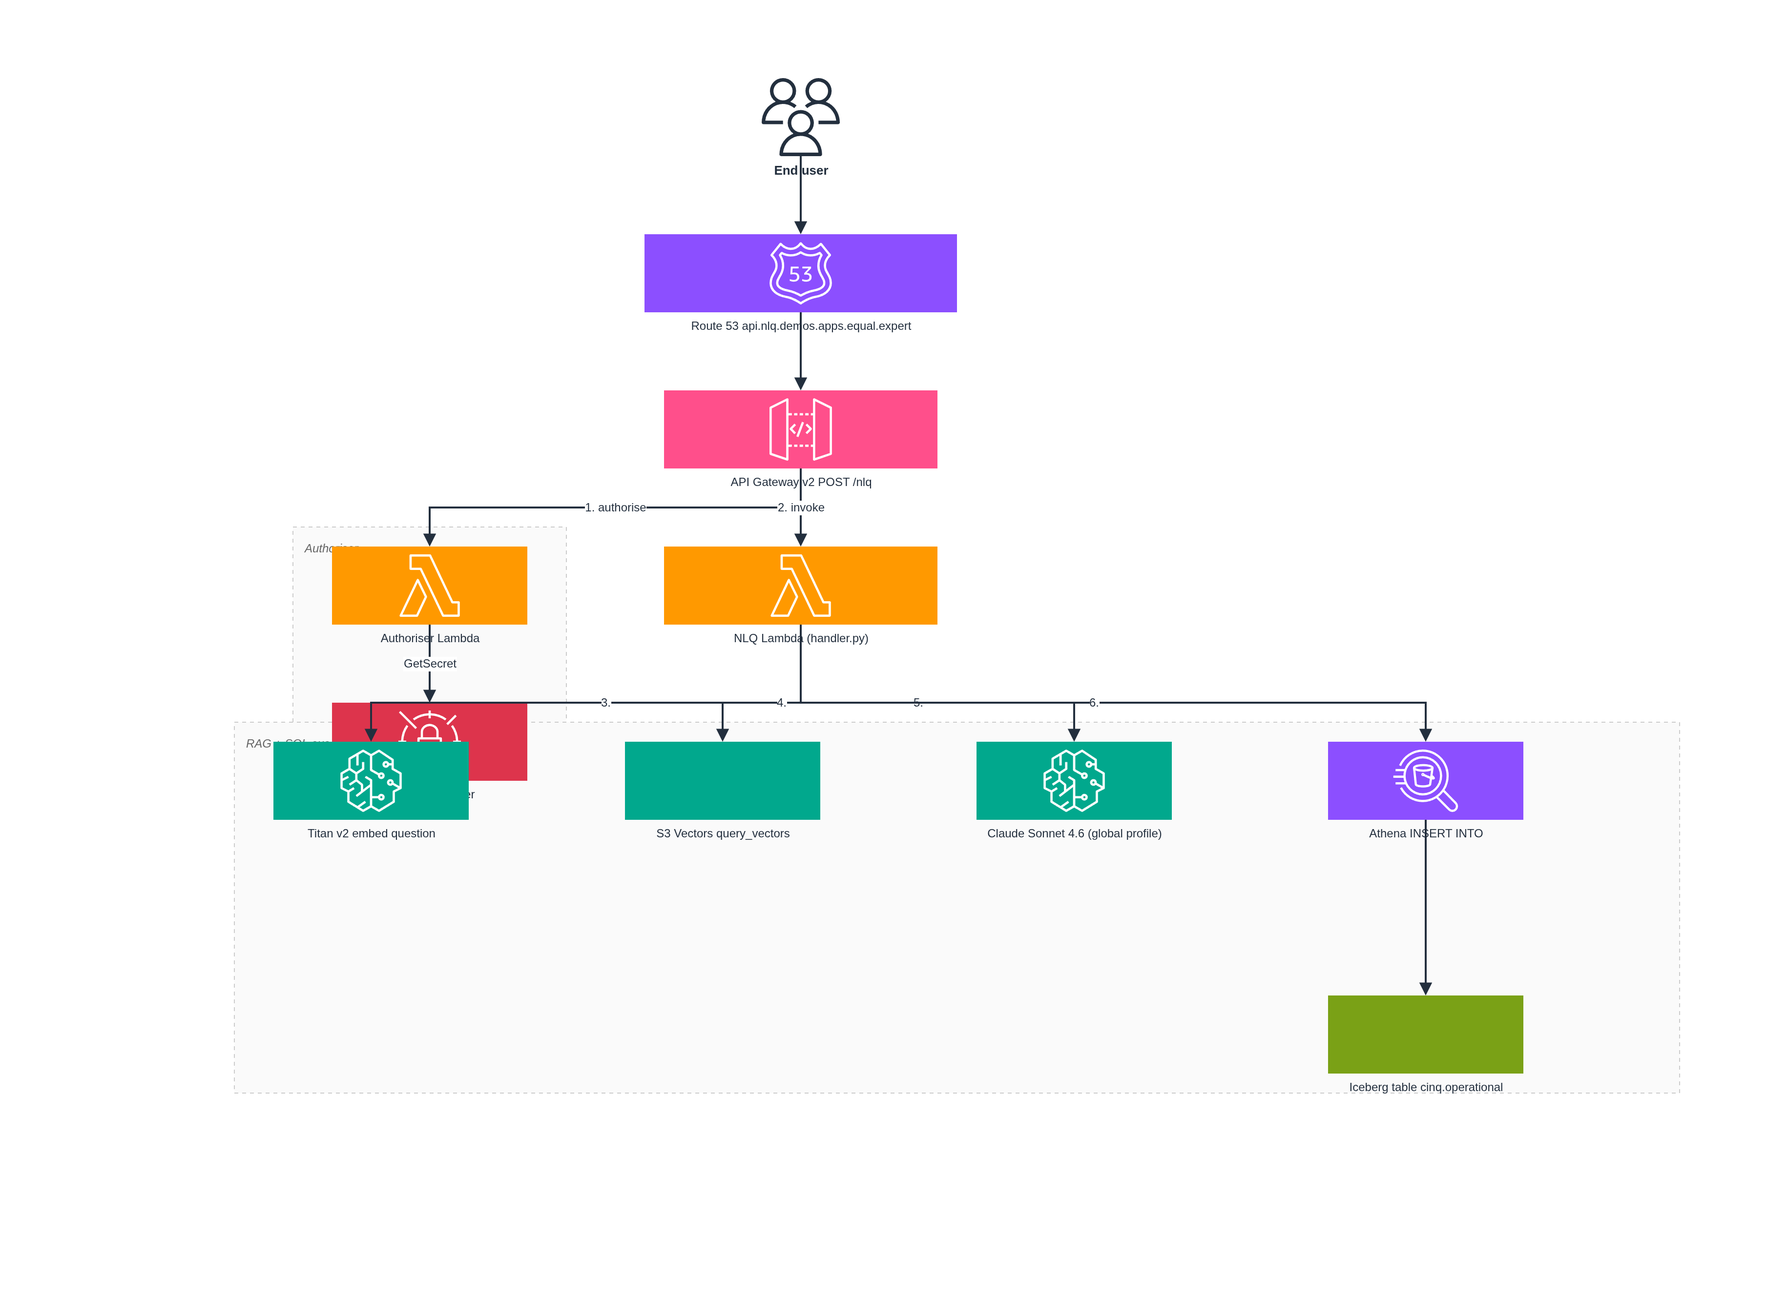
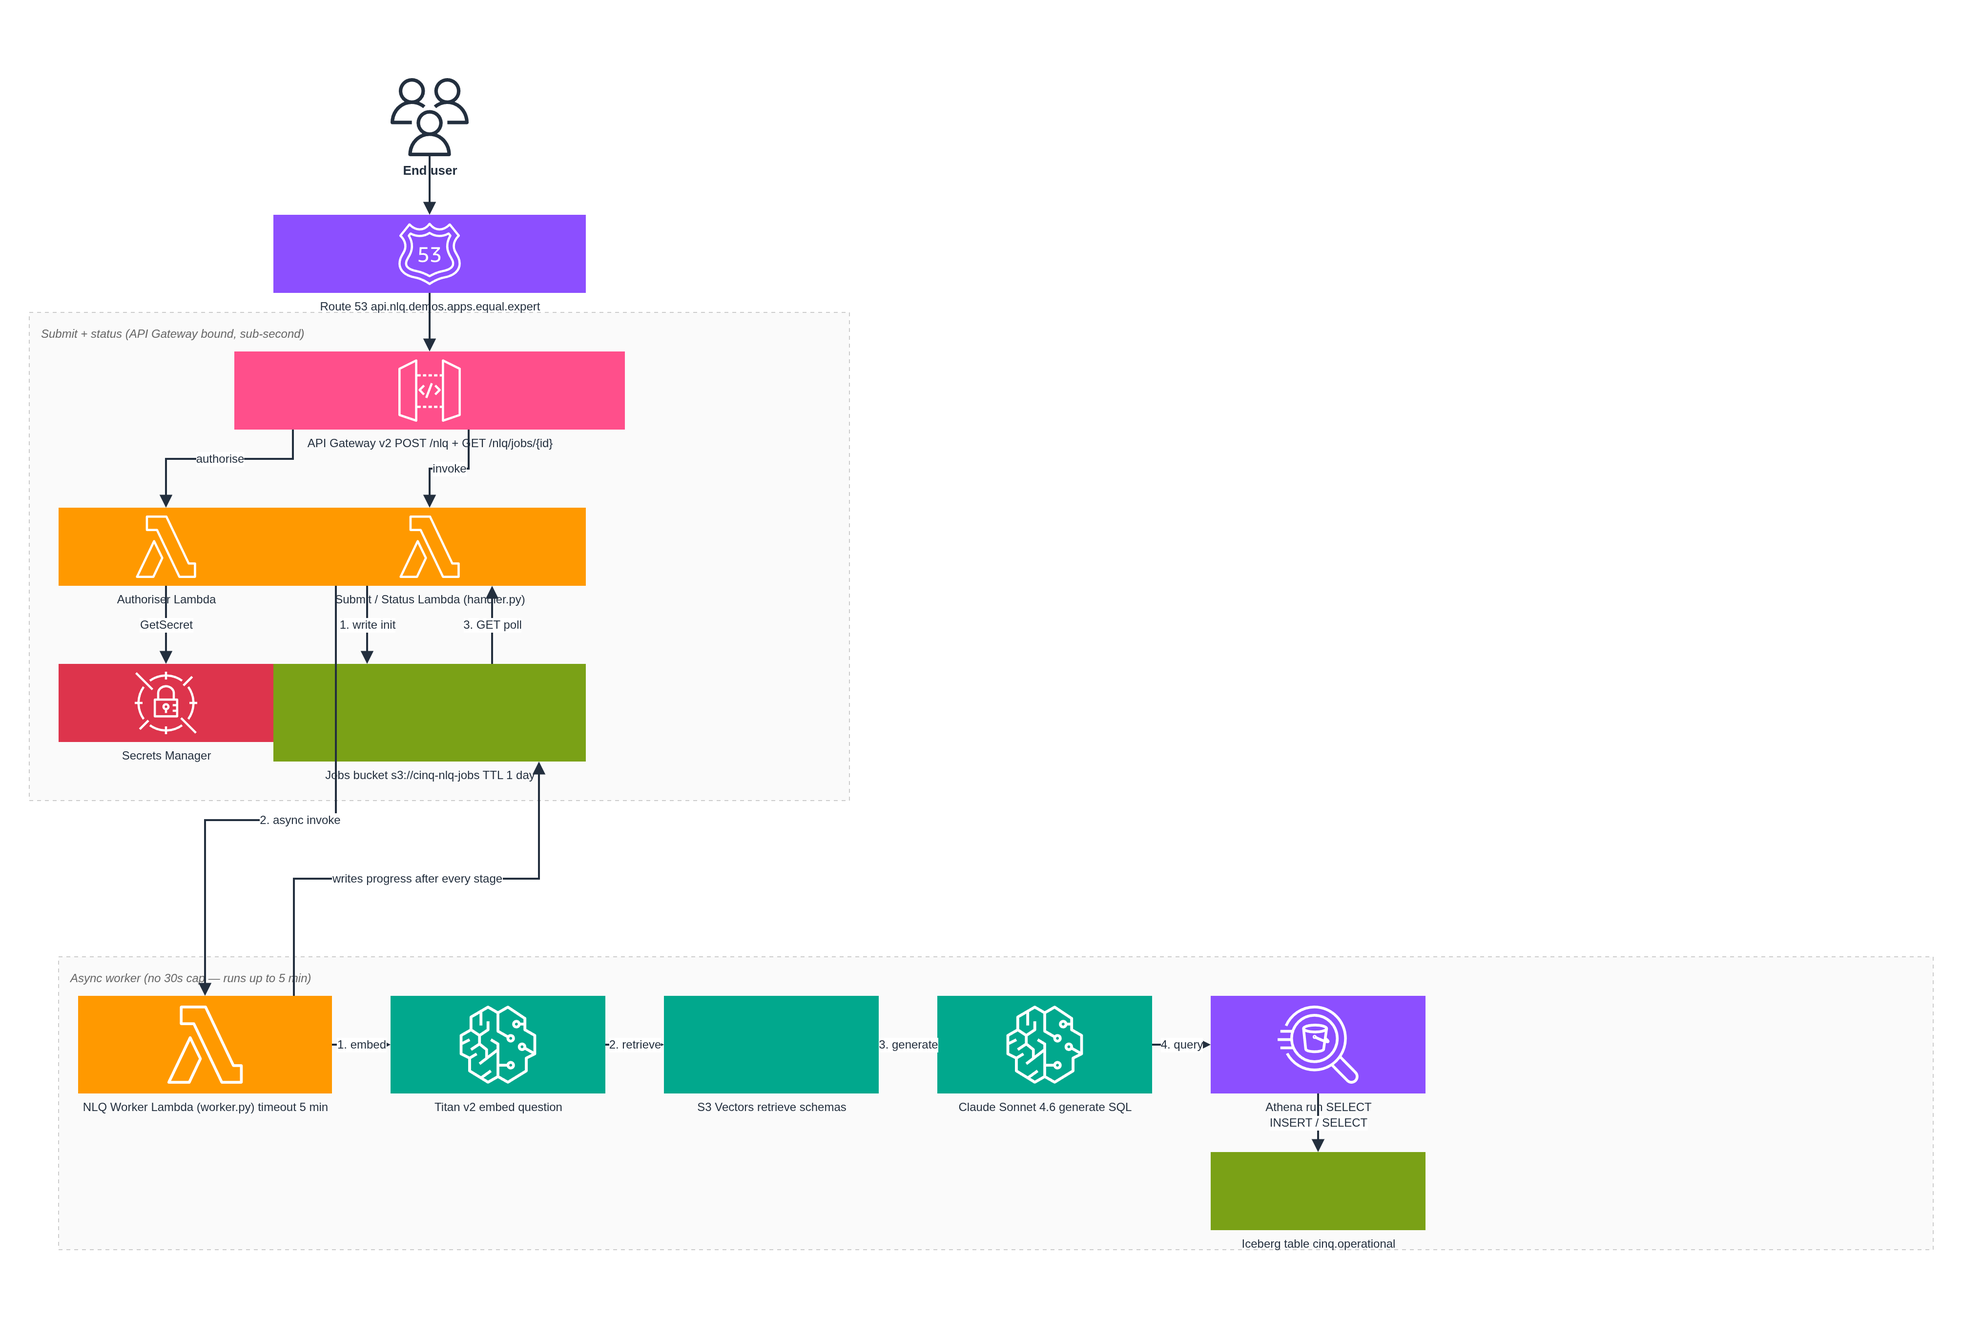
docs: async NLQ diagram + updated phase 3 walk-through
Rewrite the NLQ runtime diagram (04) for the async 202-Accepted +
polling pattern. Layout is a strict two-cluster split:

  Top cluster:    user → Route 53 → API Gateway → (auth/secrets | submit/jobs)
  Bottom cluster: Worker → Titan → S3 Vectors → Claude → Athena → Iceberg
                  (strict L→R, worker first in the row)

The only cross-cluster edges are submit→worker (async invoke) and
worker→jobs (progress writes). Both use distinct exit X positions,
distinct bus Y positions (820 vs 880), and non-overlapping horizontal
x-ranges, so no two arrows ever share a pixel.

Overview diagram (01) relabels the NLQ Lambda node to
"NLQ Lambdas (submit + worker)" to hint at the split without
cluttering the top-level picture.

HowThisWasMadeView phase 3 is fully rewritten to explain:
 - why the sync path was converging on API Gateway's hard 30s cap
 - the submit/worker/poll shape
 - the jobs bucket as the single source of truth for progress
 - the hybrid real-plus-synthetic progress derivation in the SPA

diff --git a/web/src/views/HowThisWasMadeView.tsx b/web/src/views/HowThisWasMadeView.tsx
@@ -85,7 +85,9 @@ export function HowThisWasMadeView() {
               generation</strong> layer that takes a natural-language
               question, finds the relevant resource type schemas in S3
               Vectors, and asks Claude to write a single Athena{" "}
-              <code>SELECT</code>
+              <code>SELECT</code> — wrapped in an async
+              submit-and-poll job pattern so long queries aren&apos;t
+              hostage to API Gateway&apos;s 30 second timeout
             </li>
             <li>
               a <strong className="font-bold">React SPA</strong> on
@@ -163,47 +165,60 @@ export function HowThisWasMadeView() {
 
       <Section
         number="03"
-        title="NLQ HTTP API"
+        title="Async NLQ HTTP API"
         image={`${ARCH}/04-nlq-runtime.png`}
-        alt="NLQ runtime path: API Gateway routes POST /nlq through a Lambda authoriser checking x-api-key against Secrets Manager, then to the NLQ Lambda which embeds the question, retrieves top-K schemas from S3 Vectors, asks Claude for SQL, and runs it through Athena"
+        alt="Async NLQ runtime path: POST /nlq hits API Gateway, an authoriser Lambda checks x-api-key against Secrets Manager, a submit Lambda writes an initial progress doc to an S3 jobs bucket and async-invokes a worker Lambda before returning 202 Accepted; the worker runs Titan embed, S3 Vectors retrieve, Claude generate, and Athena query in sequence while overwriting the jobs bucket after every stage; the browser polls GET /nlq/jobs/{id} which reads the same doc"
       >
         <p>
-          The runtime path is the choreography of every single question
-          you ask. The browser POSTs <code>/nlq</code> to API Gateway v2
-          with an <code>x-api-key</code> header. A REQUEST-type Lambda
-          authoriser checks that header against a Secrets Manager value
-          (cached in API Gateway for 5 minutes, so the secret isn&apos;t
-          fetched per request), then API Gateway forwards the payload to
-          the NLQ Lambda.
+          The runtime path is where the most interesting architectural
+          decision lives. The original version held one HTTP connection
+          open for the whole request — browser waits, Lambda runs embed
+          → retrieve → Claude → Athena, Lambda returns the rows, socket
+          closes. That worked up to about 15 seconds end to end, but
+          API&nbsp;Gateway&nbsp;v2&apos;s HTTP API has a <em>hard</em> 30
+          second integration timeout with no override, and as the data
+          grew some queries — 4-way VPC pivots, orphan-KMS anti-joins —
+          started spending 8 seconds in Claude <em>plus</em> 8 seconds
+          in Athena and shipping occasional 504s. A 504 on a perfectly
+          valid query is the worst possible demo failure: the user
+          thinks the engine is broken when it&apos;s actually fine.
         </p>
         <p>
-          Inside the Lambda the four stages you see in the progress panel
-          run in series:
+          The fix is the standard REST async-job pattern. <code>POST /nlq</code>
+          does as little as possible: the authoriser checks the key,
+          the submit Lambda validates the body, allocates a{" "}
+          <code>job_id</code>, writes an initial progress JSON to a new
+          jobs bucket, <code>lambda.invoke</code>s the worker with{" "}
+          <code>InvocationType=Event</code>, and returns <strong className="font-bold">
+          202 Accepted</strong> with <code>{'{job_id, status_url}'}</code>{" "}
+          in under half a second. No socket held open, no 30-second
+          ceiling in sight.
         </p>
-        <ol className="list-decimal pl-6 space-y-1">
-          <li>
-            Titan Text Embeddings v2 turns the question into a vector
-          </li>
-          <li>
-            <code>s3vectors.query_vectors</code> returns the top-K closest
-            resource type schemas
-          </li>
-          <li>
-            Claude Sonnet 4.6 (via the global cross-region inference
-            profile, for capacity) writes a single Athena{" "}
-            <code>SELECT</code> using the retrieved schemas + the table
-            description in the system prompt
-          </li>
-          <li>
-            The SQL is validated as SELECT-only, then run through{" "}
-            <code>athena.start_query_execution</code> against the Iceberg
-            table built in phase 1
-          </li>
-        </ol>
         <p>
-          The Lambda returns a single JSON object with the question, the
-          generated SQL, the retrieved schemas with their distances, the
-          rows from Athena, and per-stage timings.
+          The worker Lambda then runs the four stages it used to run
+          synchronously — Titan embed, <code>s3vectors.query_vectors</code>,
+          Claude Sonnet 4.6 via the global cross-region inference profile,
+          and <code>athena.start_query_execution</code> against the
+          Iceberg table from phase&nbsp;1 — except now with a 5-minute
+          timeout instead of 29 seconds, and <strong className="font-bold">
+          writing the jobs-bucket doc after every stage transition</strong>.
+          The doc carries per-stage <code>status</code>, server-stamped{" "}
+          <code>started_at</code> timestamps, real <code>ms</code> on
+          completion, and ultimately the full <code>result</code> block
+          (SQL, retrieved schemas, rows, Athena statistics, timings) or
+          an <code>error</code> block.
+        </p>
+        <p>
+          The browser polls <code>GET /nlq/jobs/{'{id}'}</code> every 800 ms.
+          That route goes through the same authoriser + submit Lambda;
+          the Lambda branches on method, reads the S3 doc, and returns
+          it verbatim. Polling stops when the status is terminal. The
+          sticky progress bar and the in-panel progress card are driven
+          by the same shared derivation that prefers real per-stage data
+          from the poll and fills the sub-poll gaps with a synthetic
+          timeline — so the first stage animates the moment the
+          202&nbsp;lands, sub-second stages still visibly move, and
+          terminal polls snap every bar to its real number.
         </p>
       </Section>
 

diff --git a/scripts/build_architecture_diagrams.py b/scripts/build_architecture_diagrams.py
@@ -301,8 +301,10 @@ def diagram_overview() -> Diagram:
     d.nodes.append(Node("secrets", "Secrets\nManager", AUTH_X, R_RESOURCES, 160, 80,
                         aws_resource("secrets_manager", "#DD344C")))
 
-    # API + NLQ Lambda + Stats Lambda
-    d.nodes.append(Node("nlq", "NLQ Lambda", API_X, R_LAMBDAS, 200, 80,
+    # API + NLQ Lambda — relabelled to reflect that it now dispatches
+    # submit/status requests and async-invokes a separate worker Lambda.
+    d.nodes.append(Node("nlq", "NLQ Lambdas\n(submit + worker)",
+                        API_X, R_LAMBDAS, 200, 80,
                         aws_resource("lambda", AWS_ORANGE)))
 
     # Backend row — Bedrock, S3 Vectors, Athena across the bottom
@@ -507,102 +509,203 @@ def diagram_rag_indexing() -> Diagram:
 
 
 def diagram_nlq_runtime() -> Diagram:
-    """Phase 3 — strict top-down. NLQ Lambda fans down into 4 stages."""
-    W, H = 1800, 1300
-    d = Diagram("04-nlq-runtime", "NLQ runtime path", W, H)
+    """Phase 3 — async NLQ runtime.
 
-    # Centre column for the user → API GW → Lambda chain
-    CENTRE = 800
+    Split cleanly into two halves so no two arrows ever share pixels:
 
-    d.nodes.append(Node("user", "End user", CENTRE - 40, 60, 80, 80, actor()))
+    UPPER HALF (x=0..900): the submit + status + polling path.
+      user → Route 53 → API Gateway → Submit/Status Lambda
+                                         │  (down to Jobs bucket)
+                                         │  (async invoke → Worker, right)
+      Auth branch goes LEFT from API Gateway, Secrets below Auth.
+
+    LOWER HALF (x=0..1920): the worker pipeline, a strict L→R chain:
+      Worker → Titan embed → S3 Vectors → Claude generate → Athena → Iceberg
+
+    The only cross-half edges are:
+      - Submit async-invokes Worker (one diagonal)
+      - Worker writes progress back to Jobs bucket (one diagonal)
+    Both go through y=780 — but in DIFFERENT y slots (760 vs 800)
+    and different x ranges, so they never touch.
+    """
+    W, H = 2000, 1320
+    d = Diagram("04-nlq-runtime", "NLQ runtime path (async)", W, H)
+
+    # ---- row anchors (top-down) ----
+    R_USER = 60
+    R_ROUTE = 200
+    R_APIGW = 340
+    R_LAMBDAS = 500    # auth + submit
+    R_STORE = 660      # secrets + jobs bucket
+    R_STAGES = 1000    # horizontal worker pipeline (worker sits in this row)
+    R_ICEBERG = 1160
+
+    # ---- column anchors (left cluster — submit side) ----
+    LEFT_CENTRE = 420
+
+    # ---- nodes: top half — submit + poll path ----
+    d.nodes.append(Node("user", "End user",
+                        LEFT_CENTRE - 40, R_USER, 80, 80, actor()))
     d.nodes.append(Node("r53", "Route 53\napi.nlq.demos.apps.equal.expert",
-                        CENTRE - 160, 220, 320, 80,
+                        LEFT_CENTRE - 160, R_ROUTE, 320, 80,
                         aws_resource("route_53", "#8C4FFF")))
-    d.nodes.append(Node("apigw", "API Gateway v2\nPOST /nlq",
-                        CENTRE - 140, 380, 280, 80,
-                        aws_resource("api_gateway", "#FF4F8B")))
+    d.nodes.append(Node(
+        "apigw",
+        "API Gateway v2\nPOST /nlq  +  GET /nlq/jobs/{id}",
+        LEFT_CENTRE - 200, R_APIGW, 400, 80,
+        aws_resource("api_gateway", "#FF4F8B"),
+    ))
 
-    # Auth path branches LEFT
+    # Auth column — left of the main submit column
     d.nodes.append(Node("auth", "Authoriser\nLambda",
-                        CENTRE - 480, 540, 200, 80,
+                        40, R_LAMBDAS, 220, 80,
                         aws_resource("lambda", AWS_ORANGE)))
     d.nodes.append(Node("secrets", "Secrets\nManager",
-                        CENTRE - 480, 700, 200, 80,
+                        40, R_STORE, 220, 80,
                         aws_resource("secrets_manager", "#DD344C")))
 
-    # NLQ Lambda continues straight down
-    d.nodes.append(Node("nlq", "NLQ Lambda\n(handler.py)",
-                        CENTRE - 140, 540, 280, 80,
-                        aws_resource("lambda", AWS_ORANGE)))
+    # Submit/Status Lambda — main column
+    d.nodes.append(Node(
+        "submit",
+        "Submit / Status Lambda\n(handler.py)",
+        LEFT_CENTRE - 160, R_LAMBDAS, 320, 80,
+        aws_resource("lambda", AWS_ORANGE),
+    ))
 
-    # Four stages spread across the bottom
-    STAGE_Y = 740
-    LABEL_Y = 940
-    SPACING = 360
-    LEFT_X = CENTRE - SPACING * 1.5
-    stages = [
-        ("titan", "Titan v2\nembed question",
-         LEFT_X + 0 * SPACING),
-        ("s3v", "S3 Vectors\nquery_vectors",
-         LEFT_X + 1 * SPACING),
-        ("claude", "Claude Sonnet 4.6\n(global profile)",
-         LEFT_X + 2 * SPACING),
-        ("athena", "Athena\nINSERT INTO",
-         LEFT_X + 3 * SPACING),
+    # Jobs bucket — directly below submit
+    d.nodes.append(Node(
+        "jobs",
+        "Jobs bucket\ns3://cinq-nlq-jobs\nTTL 1 day",
+        LEFT_CENTRE - 160, R_STORE, 320, 100,
+        aws_resource("simple_storage_service", "#7AA116"),
+    ))
+
+    # ---- nodes: bottom half — worker pipeline ----
+    # Single horizontal row at y=R_STAGES so the L→R chain never doubles
+    # back on itself. Worker sits FIRST in the row.
+    worker_w = 260
+    stage_w = 220
+    stage_gap = 60
+    stage_h = 100
+    row_left = 60
+    stage_positions = [
+        ("worker",
+         "NLQ Worker Lambda\n(worker.py)\ntimeout 5 min",
+         worker_w, aws_resource("lambda", AWS_ORANGE)),
+        ("titan",
+         "Titan v2\nembed question",
+         stage_w, aws_resource("sagemaker", "#01A88D")),
+        ("s3v",
+         "S3 Vectors\nretrieve schemas",
+         stage_w, aws_resource("simple_storage_service", "#01A88D")),
+        ("claude",
+         "Claude Sonnet 4.6\ngenerate SQL",
+         stage_w, aws_resource("sagemaker", "#01A88D")),
+        ("athena",
+         "Athena\nrun SELECT",
+         stage_w, aws_resource("athena", "#8C4FFF")),
     ]
-    stage_styles = [
-        aws_resource("sagemaker", "#01A88D"),
-        aws_resource("simple_storage_service", "#01A88D"),
-        aws_resource("sagemaker", "#01A88D"),
-        aws_resource("athena", "#8C4FFF"),
-    ]
-    for (nid, label, x), style in zip(stages, stage_styles):
-        d.nodes.append(Node(nid, label, int(x), STAGE_Y, 200, 80, style))
+    x_cursor = row_left
+    stage_x: dict[str, int] = {}
+    for nid, label, w, style in stage_positions:
+        stage_x[nid] = x_cursor
+        d.nodes.append(Node(nid, label, x_cursor, R_STAGES, w, stage_h, style))
+        x_cursor += w + stage_gap
 
-    # Iceberg sink
-    d.nodes.append(Node("iceberg", "Iceberg table\ncinq.operational",
-                        int(LEFT_X + 3 * SPACING), 1000, 200, 80,
-                        aws_resource("simple_storage_service", "#7AA116")))
+    # Iceberg — below athena
+    athena_x = stage_x["athena"]
+    d.nodes.append(Node(
+        "iceberg",
+        "Iceberg table\ncinq.operational",
+        athena_x, R_ICEBERG, stage_w, 80,
+        aws_resource("simple_storage_service", "#7AA116"),
+    ))
 
-    # ---- edges ----
+    # ---- edges: top half — submit path ----
     d.edges.append(Edge("e1", "user", "r53", exit=BOTTOM, entry=TOP))
     d.edges.append(Edge("e2", "r53", "apigw", exit=BOTTOM, entry=TOP))
 
-    # API GW → Auth (down then left)
-    d.edges.append(Edge("e3", "apigw", "auth", "1. authorise",
-                        exit=BOTTOM, entry=TOP,
-                        waypoints=[(CENTRE - 380, 500)]))
+    # API GW → Auth (down then left). Unique exit X (far left of apigw)
+    # and a high bus y so the line never meets apigw→submit.
+    d.edges.append(Edge(
+        "e3", "apigw", "auth", "authorise",
+        exit=(0.15, 1.0), entry=TOP,
+        waypoints=[(LEFT_CENTRE - 200 + 60, 450), (150, 450)],
+    ))
     d.edges.append(Edge("e4", "auth", "secrets", "GetSecret",
                         exit=BOTTOM, entry=TOP))
 
-    # API GW → NLQ Lambda
-    d.edges.append(Edge("e5", "apigw", "nlq", "2. invoke",
-                        exit=BOTTOM, entry=TOP))
+    # API GW → Submit (straight down via a distinct exit X)
+    d.edges.append(Edge(
+        "e5", "apigw", "submit", "invoke",
+        exit=(0.6, 1.0), entry=TOP,
+    ))
 
-    # NLQ Lambda → 4 stages. Each edge leaves the NLQ Lambda at a
-    # distinct exit-X position and uses a distinct horizontal bus Y,
-    # so no two edges ever overlap.
-    # NLQ Lambda is 280px wide; exits at 0.1, 0.37, 0.63, 0.9 of width.
-    exit_xs = [0.1, 0.37, 0.63, 0.9]
-    bus_ys = [660, 680, 700, 720]
-    for i, ((nid, _, x), ex, by) in enumerate(zip(stages, exit_xs, bus_ys)):
-        sx = int(x) + 100  # centre of stage shape
-        exit_abs_x = int(CENTRE - 140 + 280 * ex)
+    # Submit → Jobs bucket (straight down from the LEFT half of submit)
+    d.edges.append(Edge(
+        "e6", "submit", "jobs", "1. write init",
+        exit=(0.3, 1.0), entry=(0.3, 0.0),
+    ))
+
+    # Jobs → Submit (the GET poll read path — RIGHT half of both nodes so
+    # it doesn't sit on top of the write arrow)
+    d.edges.append(Edge(
+        "e7", "jobs", "submit", "3. GET poll",
+        exit=(0.7, 0.0), entry=(0.7, 1.0),
+    ))
+
+    # ---- cross-half edges ----
+    # Submit async-invokes Worker. Goes down-and-left from submit
+    # BOTTOM-LEFT to worker TOP. Bus y=820 sits cleanly in the gap between
+    # the jobs bucket (bottom y=760) and the worker row (top y=1000).
+    submit_left_x = LEFT_CENTRE - 160
+    submit_w = 320
+    worker_top_x = stage_x["worker"] + worker_w // 2  # centre of worker top
+    d.edges.append(Edge(
+        "e8", "submit", "worker", "2. async invoke",
+        exit=(0.2, 1.0), entry=(0.5, 0.0),
+        waypoints=[
+            (submit_left_x + int(submit_w * 0.2), 820),
+            (worker_top_x, 820),
+        ],
+    ))
+
+    # Worker writes progress back to Jobs bucket. Goes up-and-right from
+    # worker TOP-RIGHT to jobs BOTTOM-RIGHT. Bus y=880 — 60 px below the
+    # async-invoke bus so the two never share a pixel. The horizontal
+    # segments are in completely different x ranges too.
+    worker_right_top_x = stage_x["worker"] + int(worker_w * 0.85)
+    jobs_right_bottom_x = submit_left_x + int(submit_w * 0.85)
+    d.edges.append(Edge(
+        "e9", "worker", "jobs", "writes progress after every stage",
+        exit=(0.85, 0.0), entry=(0.85, 1.0),
+        waypoints=[
+            (worker_right_top_x, 880),
+            (jobs_right_bottom_x, 880),
+        ],
+    ))
+
+    # ---- edges: bottom half — strict L→R worker pipeline ----
+    chain = ["worker", "titan", "s3v", "claude", "athena"]
+    labels = ["1. embed", "2. retrieve", "3. generate", "4. query"]
+    for i, (a, b, label) in enumerate(zip(chain, chain[1:], labels)):
         d.edges.append(Edge(
-            f"s{i}", "nlq", nid, f"{i + 3}.",
-            exit=(ex, 1.0), entry=TOP,
-            waypoints=[(exit_abs_x, by), (sx, by)],
+            f"p{i}", a, b, label,
+            exit=RIGHT, entry=LEFT,
         ))
 
-    # Athena → Iceberg
-    d.edges.append(Edge("ei", "athena", "iceberg",
+    d.edges.append(Edge("e_iceberg", "athena", "iceberg", "INSERT / SELECT",
                         exit=BOTTOM, entry=TOP))
 
-    # Groupings
-    d.groups.append(Group("g_auth", "Authoriser",
-                          int(CENTRE - 520), 520, 280, 280))
-    d.groups.append(Group("g_stages", "RAG + SQL execution",
-                          int(LEFT_X - 40), 720, SPACING * 4 + 40, 380))
+    # ---- groupings ----
+    d.groups.append(Group(
+        "g_submit", "Submit + status (API Gateway bound, sub-second)",
+        10, R_APIGW - 40, 840, R_STORE + 140 - (R_APIGW - 40),
+    ))
+    d.groups.append(Group(
+        "g_worker", "Async worker (no 30s cap — runs up to 5 min)",
+        40, R_STAGES - 40, W - 80, R_ICEBERG + 100 - (R_STAGES - 40),
+    ))
 
     return d
 
